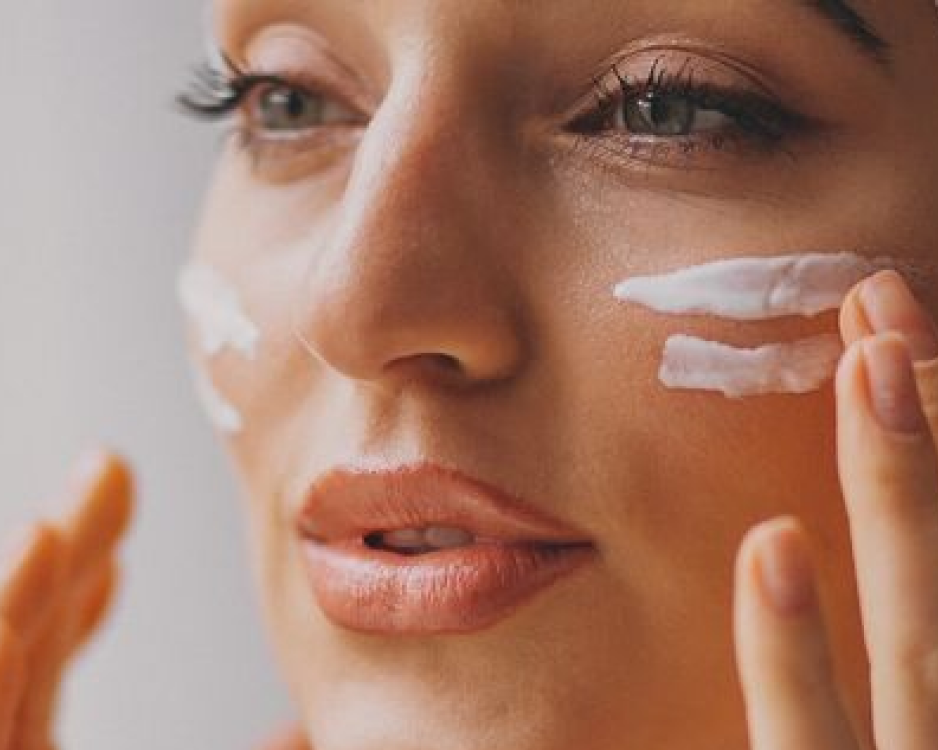
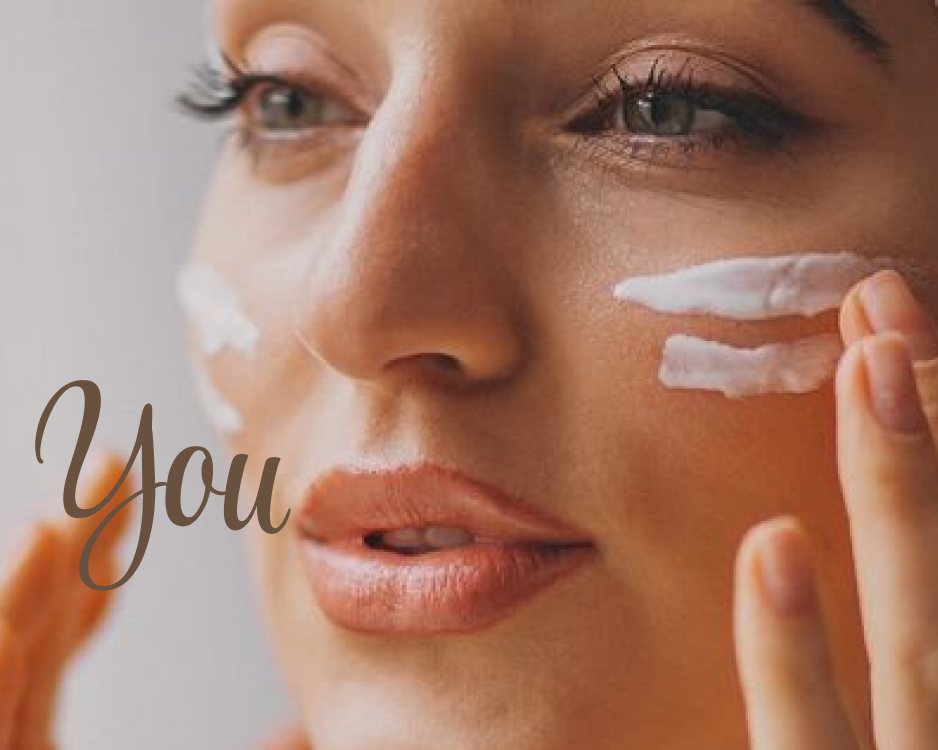
feat: was corrected .css

Changed region(s): [[0.0309, 0.4907, 0.3092, 0.7973], [0.0618, 0.736, 0.0928, 0.7667]]

diff --git a/style.css b/style.css
@@ -2,6 +2,7 @@ body{
     width: 1440px;
     margin: auto;
     padding: 0;
+    overflow-x: hidden;
 }
 header{
     display: flex;
@@ -153,7 +154,7 @@ border-radius: 10px;
     flex-direction: column;
     justify-content: center;
     align-items: center;
-    gap: 50px;
+    gap: 44px;
 }
 .natural{
     font-family: STSong;
@@ -179,13 +180,15 @@ font-size: 856.25%;
 font-weight: 400;
 line-height: 112px;
 letter-spacing: 0em;
+transform: rotate(-5deg);
+transform-origin: 0 0;
 text-align: center;
 margin: 0;
 color: #68513F;
 }
 .at{
     font-family: Inter;
-font-size: 87.5%;
+font-size: 100%;
 font-weight: 400;
 line-height: 20px;
 letter-spacing: 0em;
